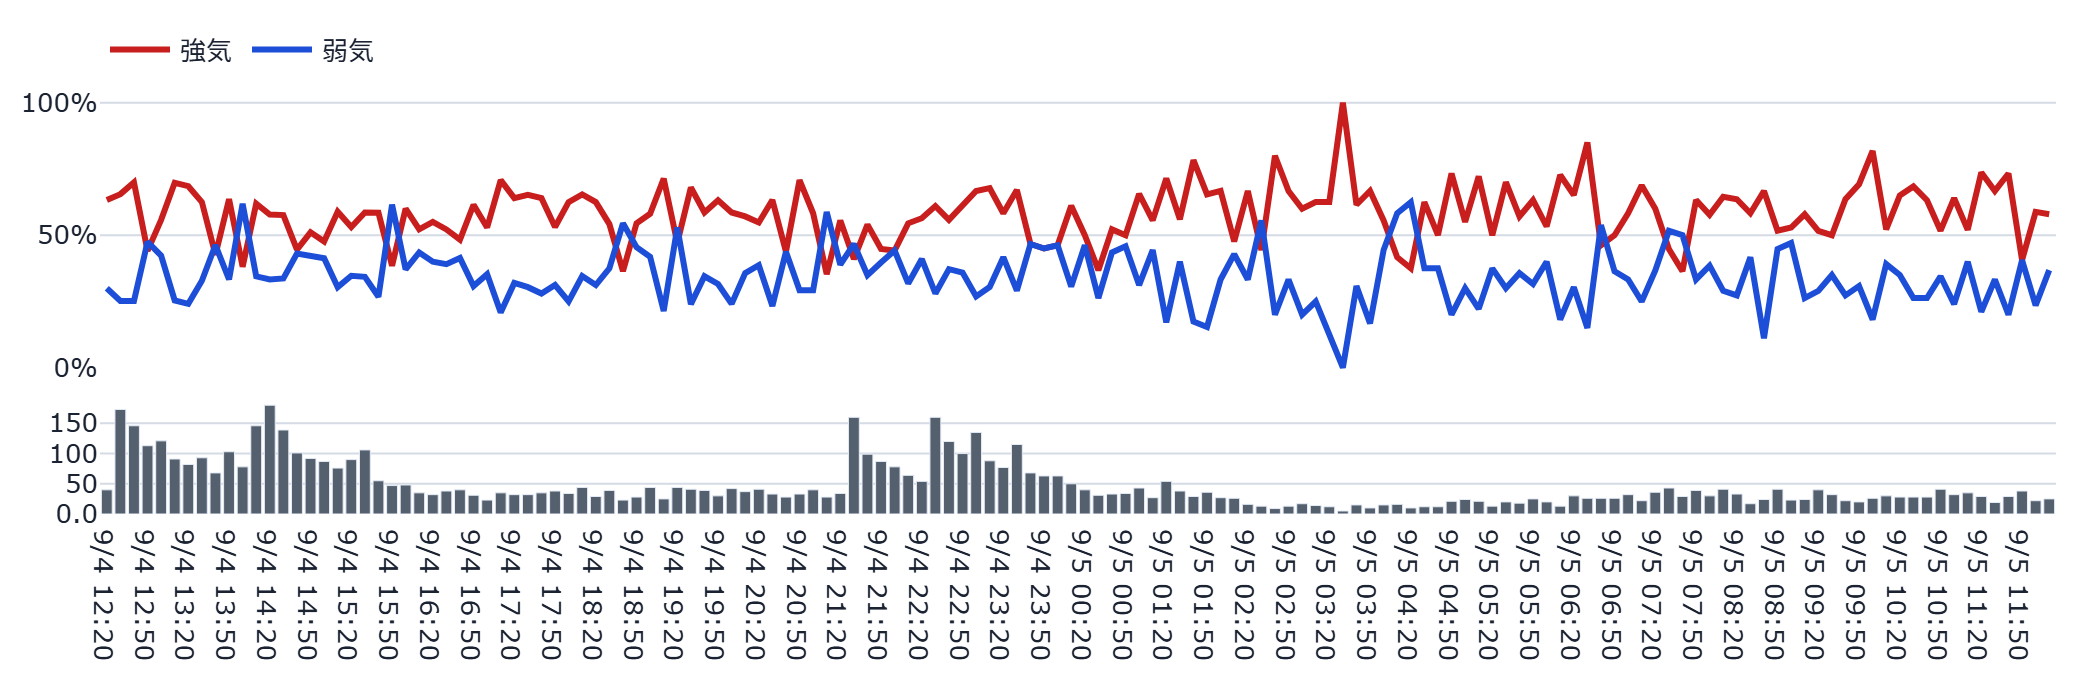
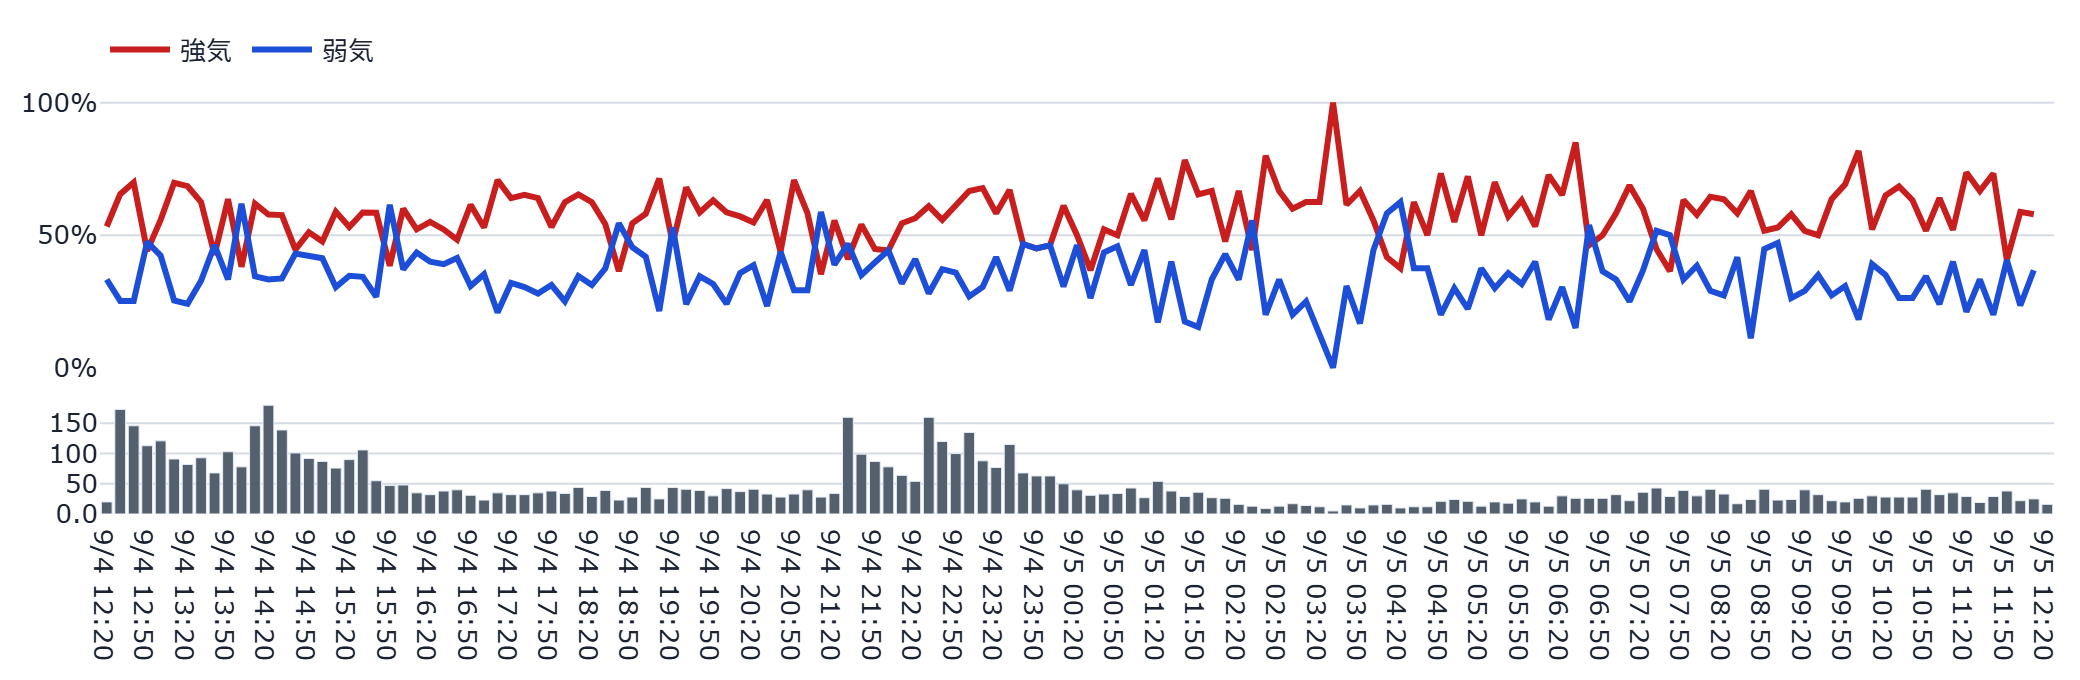
auto: refresh static dashboard (2026-09-05 12:29:40 JST)

Changed region(s): [[0.0312, 0.6176, 1.0, 0.9882], [0.0938, 0.1544, 1.0, 0.5559], [0.0312, 0.2779, 0.0625, 0.3088]]

diff --git a/docs/index.html b/docs/index.html
@@ -116,10 +116,10 @@
         <span class="price">54,460円</span>
         <span class="chg" style="color:#8B94A3">—</span>
       </div>
-      <p class="caption">更新時刻: 2026-09-05T12:25:31（データは1分間隔で自動生成され、このページも
+      <p class="caption">更新時刻: 2026-09-05T12:28:28（データは1分間隔で自動生成され、このページも
       60秒毎に自動再読み込みされます）</p>
       
-      <p id='visit-count-badge' class='caption'>👀 累計閲覧数: 2,657</p>
+      <p id='visit-count-badge' class='caption' style='display:none'></p>
       <p id='like-button-wrap' class='caption'><button id='like-button' type='button' style='cursor:pointer;border:1px solid var(--border);border-radius:6px;padding:1px 10px;margin-right:6px;background:var(--panel);color:var(--text);font-size:1em;vertical-align:middle'>👍</button><span id='like-count-label'>このダッシュボードが役に立ったら押してください（累計 2 いいね）</span></p>
 
       <h2>🔥😱 2大メーター・ボラレジーム</h2>
@@ -196,22 +196,20 @@
       
 
       <h2>🤖 AI考察</h2>
-      <div class='metric-row'><div class='metric-card'><div class='metric-label'>株価</div><div class='metric-value'>54,460円</div><div class='metric-delta'>+0円</div></div><div class='metric-card'><div class='metric-label'>強気比率</div><div class='metric-value'>60.0%</div><div class='metric-delta'>+0.0pt</div></div><div class='metric-card'><div class='metric-label'>弱気比率</div><div class='metric-value'>32.4%</div><div class='metric-delta'>+0.2pt</div></div></div><p class='caption'>前回集計(2026-09-05T12:16:31)との比較</p>
+      <div class='metric-row'><div class='metric-card'><div class='metric-label'>株価</div><div class='metric-value'>54,460円</div><div class='metric-delta'>+0円</div></div><div class='metric-card'><div class='metric-label'>強気比率</div><div class='metric-value'>60.0%</div><div class='metric-delta'>+0.0pt</div></div><div class='metric-card'><div class='metric-label'>弱気比率</div><div class='metric-value'>32.4%</div><div class='metric-delta'>+0.0pt</div></div></div><p class='caption'>前回集計(2026-09-05T12:25:31)との比較</p>
       <div class='ai-box'>本件は、掲示板の集計センチメントデータに基づく分析であり、投資助言ではありません。<br>
 <br>
-キオクシアホールディングス（285A）について、休場日における最新のセンチメントデータを分析します。直近の取引日の終値（9月4日）は54,460円となり、掲示板上では強気比率が60.0%と高水準で推移しています。過去数日間の推移を振り返ると、8月後半には弱気派が優勢な局面もありましたが、直近では強気への転換が見て取れます。<br>
+キオクシアホールディングス（285A）について、休場日における最新のセンチメントデータを分析します。直近の取引日の終値（9月4日）は54,460円となり、前営業日比で強気比率が上昇し、強気の姿勢を強める展開となりました。<br>
 <br>
-特筆すべきは、掲示板の反応と市場の動きとの相関です。前営業日の終値からPTSや米国ADRでは約6%以上のプラス圏で推移しており、この外部的な価格上昇を反映した形で、掲示板上でも強気比率が上昇している様子が伺えます。一方で、シグナル発火状況を見ると「話題枯れ」が発火しており、投稿数のzスコアは負の値を記録しています。これは、活発な議論が行われているというよりは、価格の上昇に対する反応が一定の落ち着きを見せている、あるいは関心が分散している状態を示唆しています。<br>
+特筆すべきは、掲示板上のセンチメントと実際の市場価格・出来高の動向における「乖離」です。現在、強気比率は60.0%と高い水準にありますが、一方で「話題枯れ」のシグナルが発火しており、投稿数（z=-1.08）は統計的に閑散とした状態にあります。これは、熱狂的な議論が盛り上がっているというよりも、特定の材料に対する反応が一段落し、静かながらも強気な見方で推移している状況を示唆しています。また、「他銘柄混入率」の警戒表示や「話題枯れ」の変化は、投資家の関心がこの銘柄に集中し続けているのではなく、他の選択肢へ分散している可能性を反映していると考えられます。<br>
 <br>
-また、「他銘柄混入率」が警戒水準に達しており、前回取引日からの変化としてもこの傾向が強まっています。これは投資家の関心が本銘柄のみに集中せず、他の銘柄や市場全体の動きへと分散し始めている可能性を推測させます。過熱度スコアは32.9と警戒域に近いものの、総悲観度スコアが0.0であることから、現時点では極端な恐怖感や売り圧力が支配する状況にはないことが分かります。<br>
+過熱度スコア（32.9）については閾値に近いものの、投稿サージやイナゴ語彙などの指標は平常範囲内にあることから、現時点でのセンチメントは「爆発的な高揚感」というよりは、「落ち着いた強気への傾斜」と捉えるのが妥当です。ボラティリティ・レジームが現在「calibrating（較正中）」であることは、現在の価格変動の性質を確定させるための移行期にあることを示しており、センチメントの強さと相関する明確なボラティリティの方向性がまだ定まっていない状況と言えます。<br>
 <br>
-ボラティリティのレジームについては現在「calibrating（較正中）」となっており、標準的な変動幅を確定させる過程にあります。この不安定なボラティリティ指標に対し、センチメントが強気寄りで安定している点は、急激な価格変動に対する過度な反応よりも、緩やかな期待感に基づいた投稿が集まっている現状を裏付けている可能性があります。<br>
-<br>
-総じて、外部市場でのプラスの動きを受けて掲示板上も強気的な色彩を帯びていますが、話題の集中度は低下しており、熱狂というよりは静かな期待と関心の分散が混在する状況といえます。</div><p class='caption'>生成時刻: 2026-09-05T12:25:31</p>
+なお、取引時間外のPTSや米国ADRでは、前営業日の終値を上回る動きが見られており、翌営業日の寄り付きに向けた外部環境の反応として注視が必要です。総じて、掲示板内では強気の姿勢が優勢ながらも、議論の密度は低下しており、市場の関心が分散している局面にあると分析されます。</div><p class='caption'>生成時刻: 2026-09-05T12:28:28</p>
 
       <hr style="border:none;border-top:1px solid var(--border);margin:2rem 0 1rem">
       <p class="caption">⚠ 本情報は掲示板投稿を統計的に集計したものであり、投資助言ではありません。個別の投稿内容は含まれていません。研究・エンタメ用途です。</p>
-      <footer>生成: generate_static_dashboard.py（2026-09-05T12:27:44） /
+      <footer>生成: generate_static_dashboard.py（2026-09-05T12:29:30） /
       画像バックエンド: plotly+kaleido</footer>
     </div>
     <script>(function(){var url="https://script.google.com/macros/s/AKfycbwgSSGQ2n56ohmIYKlNDA1Xe3D8hd3GJbD0U90L4DGtXdb8pqrPokNMHJWjvN1__7bE/exec";var KEY='bbs_visit_counted';var already=sessionStorage.getItem(KEY);var action=already?'read':'hit';var ctrl=(typeof AbortController!=='undefined')?new AbortController():null;var timer=ctrl?setTimeout(function(){ctrl.abort();},5000):null;fetch(url+'?action='+action,{signal:ctrl?ctrl.signal:undefined}).then(function(r){if(timer)clearTimeout(timer);return r.json();}).then(function(data){if(!already)sessionStorage.setItem(KEY,'1');if(data&&typeof data.count==='number'){var el=document.getElementById('visit-count-badge');if(el){el.textContent='\u{1F440} \u7d2f\u8a08\u95b2\u89a7\u6570: '+data.count.toLocaleString();el.style.display='';}}}).catch(function(e){if(timer)clearTimeout(timer);console.warn('visit counter fetch failed (fail-soft):',e);});})();</script><script>(function(){var url="https://script.google.com/macros/s/AKfycbwgSSGQ2n56ohmIYKlNDA1Xe3D8hd3GJbD0U90L4DGtXdb8pqrPokNMHJWjvN1__7bE/exec";var KEY='bbs_liked';var btn=document.getElementById('like-button');var label=document.getElementById('like-count-label');if(!btn||!label)return;function renderLiked(count){btn.disabled=true;btn.style.cursor='default';btn.style.opacity='0.6';btn.textContent='\u2705';label.textContent="\u3044\u3044\u306d\u3057\u307e\u3057\u305f\uff01"+(typeof count==='number'?"\uff08\u7d2f\u8a08 "+count.toLocaleString()+" \u3044\u3044\u306d\uff09":'');}if(localStorage.getItem(KEY)){renderLiked(null);}btn.addEventListener('click',function(){if(localStorage.getItem(KEY))return;btn.disabled=true;var ctrl=(typeof AbortController!=='undefined')?new AbortController():null;var timer=ctrl?setTimeout(function(){ctrl.abort();},5000):null;fetch(url+'?action=like_hit',{signal:ctrl?ctrl.signal:undefined}).then(function(r){if(timer)clearTimeout(timer);return r.json();}).then(function(data){localStorage.setItem(KEY,'1');renderLiked(data&&typeof data.count==='number'?data.count:null);}).catch(function(e){if(timer)clearTimeout(timer);btn.disabled=false;console.warn('like button fetch failed (fail-soft):',e);});});})();</script></body></html>
